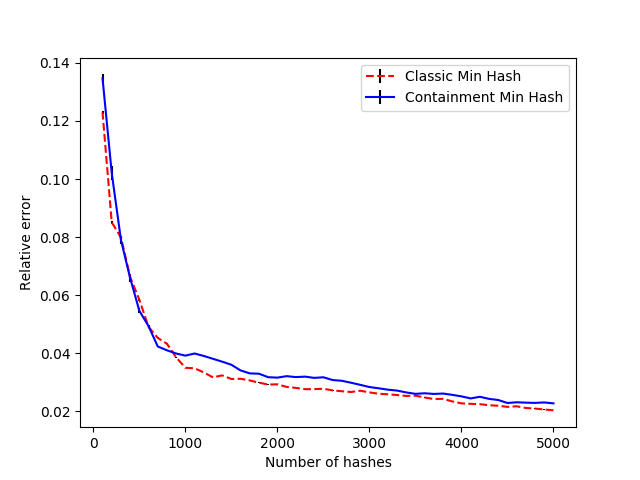
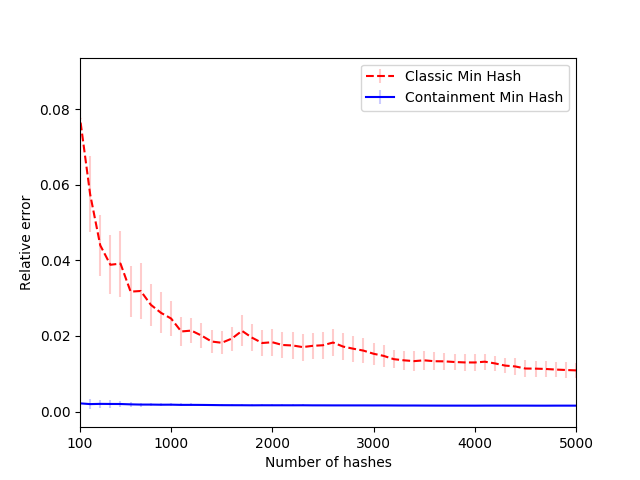
created smaller biological data simulation

diff --git a/src/SimulatedBiologicalData.py b/src/SimulatedBiologicalData.py
@@ -1,0 +1,207 @@
+# This script will simulate some metagenomic data and compare:
+# 1. Brute force ground truth
+# 2. Classic min hash
+# 3. Containment min hash
+# via Gem-Sim
+import os
+import screed
+import numpy as np
+import subprocess
+from pybloom import BloomFilter  # basic bloom filter for comparison purposes
+import khmer
+import MinHash as MH
+import bz2
+import tempfile
+import matplotlib.pyplot as plt
+#from multiprocessing import Pool
+from multiprocessing.dummy import Pool
+from itertools import *
+
+num_threads = 8
+num_genomes = 20
+num_reads = 1000000
+num_replicates = 20
+python_loc = "python"
+gen_sim_loc = "/home/dkoslicki/Documents/GemSIM_v1.6/GemReads.py"
+prime = 9999999999971  # taking hashes mod this prime
+p = 0.001  # false positive rate for the bloom filter
+ksize = 11  # k-mer length
+max_h = 5000  # Maximum number of hashes to use
+hash_range = range(max_h, 10, -100)  # range of hash values to test
+
+
+def make_simulation(num_genomes, num_reads, python_loc, gen_sim_loc):
+	# First, read in the available files
+	file_names = list()
+	fid = open(os.path.abspath('../data/Genomes/FileNames.txt'), 'r')
+	for line in fid.readlines():
+		file_names.append(os.path.abspath(os.path.join('../data/Genomes/', os.path.basename(line.strip()))))
+
+	fid.close()
+
+	# Make a random selection of the genomes
+	selected_genomes = np.random.choice(file_names, num_genomes, replace=False)
+
+	# Make an abundance file with random abundances, use uniform distribution for now
+	abundances = np.random.rand(num_genomes)
+	abundances /= np.sum(abundances)
+	abundances_temp_file = tempfile.NamedTemporaryFile('w', suffix=".txt")
+	abundances_temp_file_name = abundances_temp_file.name
+	abundances_temp_file.close()
+	fid = open(abundances_temp_file_name, 'w')
+	for i in range(num_genomes):
+		fid.write('%s\t%f\n' % (os.path.basename(selected_genomes[i]), abundances[i]))
+
+	fid.close()
+
+	# Run Gen Sim
+	genomes_loc = '../data/Genomes/'
+	cmd = python_loc + " " + gen_sim_loc + " -R " + genomes_loc + " -a " + abundances_temp_file_name + " -n " + str(num_reads) + \
+		" -l 100 -c -q 64 -o " + os.path.join(os.path.dirname(abundances_temp_file_name), os.path.splitext(os.path.basename(abundances_temp_file_name))[0]) + " -m " + \
+		os.path.join(os.path.dirname(gen_sim_loc), "models/ill100v5_s.gzip")
+
+	devnull = open(os.devnull, 'w')  # Gen sim has a "divide by zero" warning, so let's suppress it
+	test = subprocess.check_output(cmd, shell=True, stderr=devnull)
+	return os.path.join(os.path.dirname(abundances_temp_file_name), os.path.splitext(os.path.basename(abundances_temp_file_name))[0]) + "_single.fastq", abundances_temp_file_name, selected_genomes
+
+
+def create_relative_errors(num_genomes, num_reads, python_loc, gen_sim_loc, prime, p, ksize, hash_range):
+	# Make a simulation
+	simulation_file, abundances_file, selected_genomes = make_simulation(num_genomes, num_reads, python_loc, gen_sim_loc)
+
+	# Get simulation k-mers, use canonical k-mers
+	# Simultaneously, make the min hash sketch of the simulation
+	simulation_kmers = set()
+	simulation_MHS = MH.CountEstimator(n=max_h, max_prime=prime, ksize=ksize, save_kmers='y')
+	for record in screed.open(simulation_file):
+		seq = record.sequence
+		for i in xrange(len(seq) - ksize + 1):
+			kmer = seq[i:i+ksize]
+			kmer_rev = khmer.reverse_complement(kmer)
+			if kmer < kmer_rev:
+				simulation_kmers.add(kmer)
+				simulation_MHS.add(kmer)
+			else:
+				simulation_kmers.add(kmer_rev)
+				simulation_MHS.add(kmer_rev)
+
+	# Use them to populate a bloom filter
+	simulation_bloom = BloomFilter(capacity=1.1*len(simulation_kmers), error_rate=p)
+	simulation_kmers_length = len(simulation_kmers)  # in practice, this would be computed when the bloom filter is created
+	# or can use an estimate based on the bloom filter entries
+	for kmer in simulation_kmers:
+		simulation_bloom.add(kmer)
+
+	# Use pre-computed data to load the kmers and the sketches
+	base_names = [os.path.basename(item) for item in selected_genomes]
+	# Load the sketches
+	genome_sketches = MH.import_multiple_from_single_hdf5(os.path.abspath('../data/Genomes/AllSketches.h5'), base_names)
+	# Get the true number of kmers
+	genome_lengths = list()
+	for i in range(len(genome_sketches)):
+		genome_lengths.append(genome_sketches[i]._true_num_kmers)
+
+	# Get *all* the kmers for computation of ground truth
+	genome_kmers = list()
+	for i in range(len(base_names)):
+		name = base_names[i]
+		kmers = set()
+		fid = bz2.BZ2File(os.path.abspath(os.path.join('../data/Genomes/', name + ".kmers.bz2")), 'r')
+		for line in fid.readlines():
+			kmers.add(line.strip())
+		fid.close()
+		genome_kmers.append(kmers)
+
+	# Calculate the true Jaccard index
+	true_jaccards = list()
+	for kmers in genome_kmers:
+		true_jaccard = len(kmers.intersection(simulation_kmers)) / float(len(kmers.union(simulation_kmers)))
+		true_jaccards.append(true_jaccard)
+
+	# Calculate the min hash estimate of jaccard index
+	MH_relative_errors = list()
+	CMH_relative_errors = list()
+	for h in hash_range:
+		MH_jaccards = list()
+		for MHS in genome_sketches:
+			# Down sample each sketch to h
+			MHS.down_sample(h)
+			simulation_MHS.down_sample(h)
+			MH_jaccard = MHS.jaccard(simulation_MHS)
+			MH_jaccards.append(MH_jaccard)
+
+		MH_jaccards_corrected = list()
+		for MHS in genome_sketches:
+			MHS_set = set(MHS._mins)
+			sample_set = set(simulation_MHS._mins)
+			MH_jaccard = len(set(list(MHS_set.union(sample_set))[0:h]).intersection(MHS_set.intersection(sample_set))) / float(h)
+			MH_jaccards_corrected.append(MH_jaccard)
+
+		# Calculate the containment min hash estimate of the jaccard index
+		CMH_jaccards = list()
+		for i in range(len(genome_sketches)):
+			genome_kmers_len = genome_lengths[i]  # pre-computed when creating the "training" data
+			MHS = genome_sketches[i]
+			# down sample each sketch to h
+			MHS.down_sample(h)
+			kmers = MHS._kmers  # use only the k-mers in the min hash sketch
+			int_est = 0
+			for kmer in kmers:
+				if kmer in simulation_bloom:  # test if the k-mers are in the simulation bloom filter
+					int_est += 1
+			int_est -= p*h  # adjust for false positive rate
+			containment_est = int_est / float(h)
+			containment_est_jaccard = genome_kmers_len * containment_est / \
+				(genome_kmers_len + simulation_kmers_length - genome_kmers_len * containment_est)
+			CMH_jaccards.append(containment_est_jaccard)
+
+		# compute the average deviation from the truth (relative error)
+		true_jaccards = np.array(true_jaccards)
+		MH_jaccards = np.array(MH_jaccards)
+		CMH_jaccards = np.array(CMH_jaccards)
+		MH_mean = np.mean(np.abs(true_jaccards - MH_jaccards)/true_jaccards)
+		CMH_mean = np.mean(np.abs(true_jaccards - CMH_jaccards)/true_jaccards)
+		#print("Classic min hash mean relative error: %f" % MH_mean)
+		#print("Containment min hash mean relative error: %f" % CMH_mean)
+		MH_relative_errors.append(MH_mean)
+		CMH_relative_errors.append(CMH_mean)
+
+	# remove temp files
+	os.remove(simulation_file)
+	os.remove(abundances_file)
+	# return the relative errors
+	return MH_relative_errors, CMH_relative_errors
+
+
+# Now let's parallelize it and do a bunch of replicates
+def dummy_wrapper(arg):
+	return create_relative_errors(*arg)
+
+pool = Pool(processes=num_threads)
+res = pool.map(dummy_wrapper, [(num_genomes, num_reads, python_loc, gen_sim_loc, prime, p, ksize, hash_range)
+								for item in range(num_replicates)])
+
+# Plot the results
+MH_results = np.zeros((num_replicates, len(hash_range)))
+CMH_results = np.zeros((num_replicates, len(hash_range)))
+for i in range(num_replicates):
+	MH_results[i, :] = res[i][0]
+	CMH_results[i, :] = res[i][1]
+
+np.savetxt(os.path.abspath('../data/SimulatedMetagenomes/MinHash_results.txt'), MH_results)
+np.savetxt(os.path.abspath('../data/SimulatedMetagenomes/ContainmentMinHash_results.txt'), CMH_results)
+
+plt.figure()
+plt.errorbar(hash_range, np.mean(MH_results, 0), yerr=np.std(MH_results, 0), fmt='--r', ecolor=[1, 0, 0, .2], label="Classic Min Hash")
+plt.errorbar(hash_range, np.mean(CMH_results, 0), yerr=np.std(CMH_results, 0), fmt='b', ecolor=[0, 0, 1, .2], label="Containment Min Hash")
+axes = plt.gca()
+plt.ylabel('Relative error')
+plt.xlabel('Number of hashes')
+plt.xlim([min(hash_range), max(hash_range)])
+ticks = plt.xticks()
+ticks[0][0] = min(hash_range)
+plt.xticks(ticks[0])
+plt.legend()
+
+plt.savefig('../Paper/Figs/SimulatedBiologicalData.png')
+

diff --git a/src/SimulatedBiologicalDataSmall.py b/src/SimulatedBiologicalDataSmall.py
@@ -17,10 +17,10 @@ import matplotlib.pyplot as plt
 from multiprocessing.dummy import Pool
 from itertools import *
 
-num_threads = 7
-num_genomes = 25
-num_reads = 10000
-num_replicates = 7
+num_threads = 8
+num_genomes = 20
+num_reads = 100000
+num_replicates = 20
 python_loc = "python"
 gen_sim_loc = "/home/dkoslicki/Documents/GemSIM_v1.6/GemReads.py"
 prime = 9999999999971  # taking hashes mod this prime
